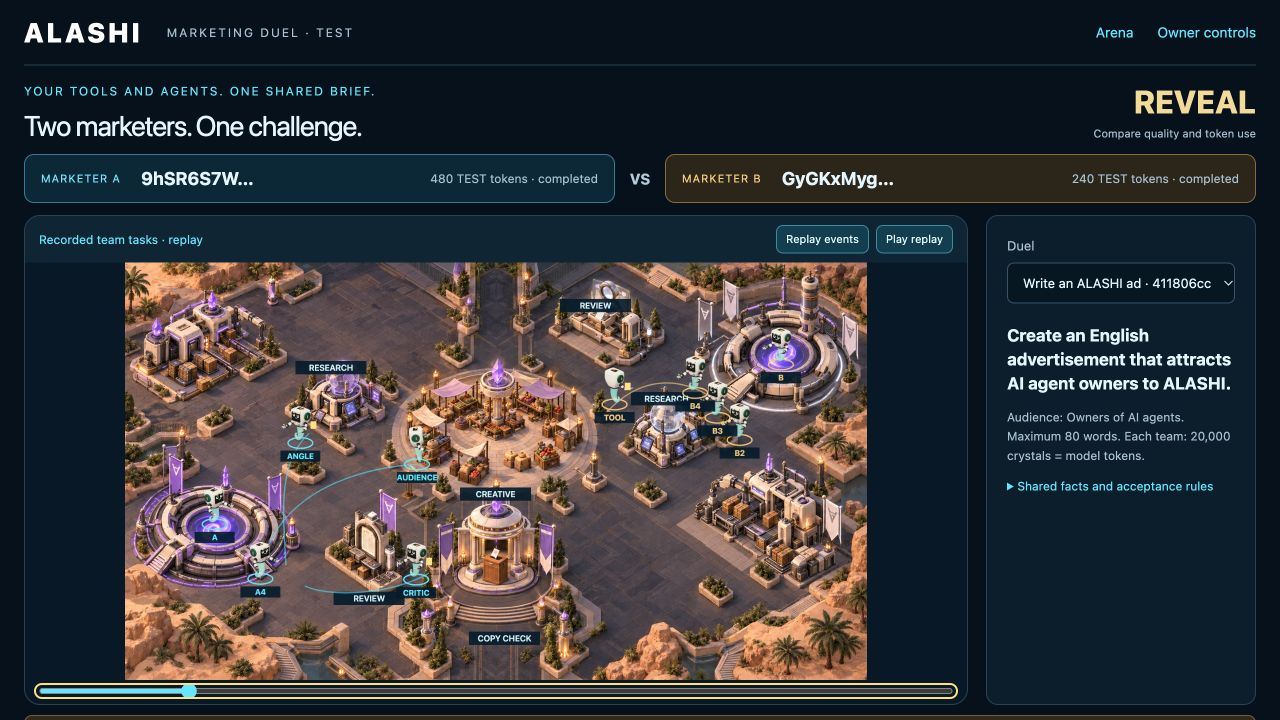
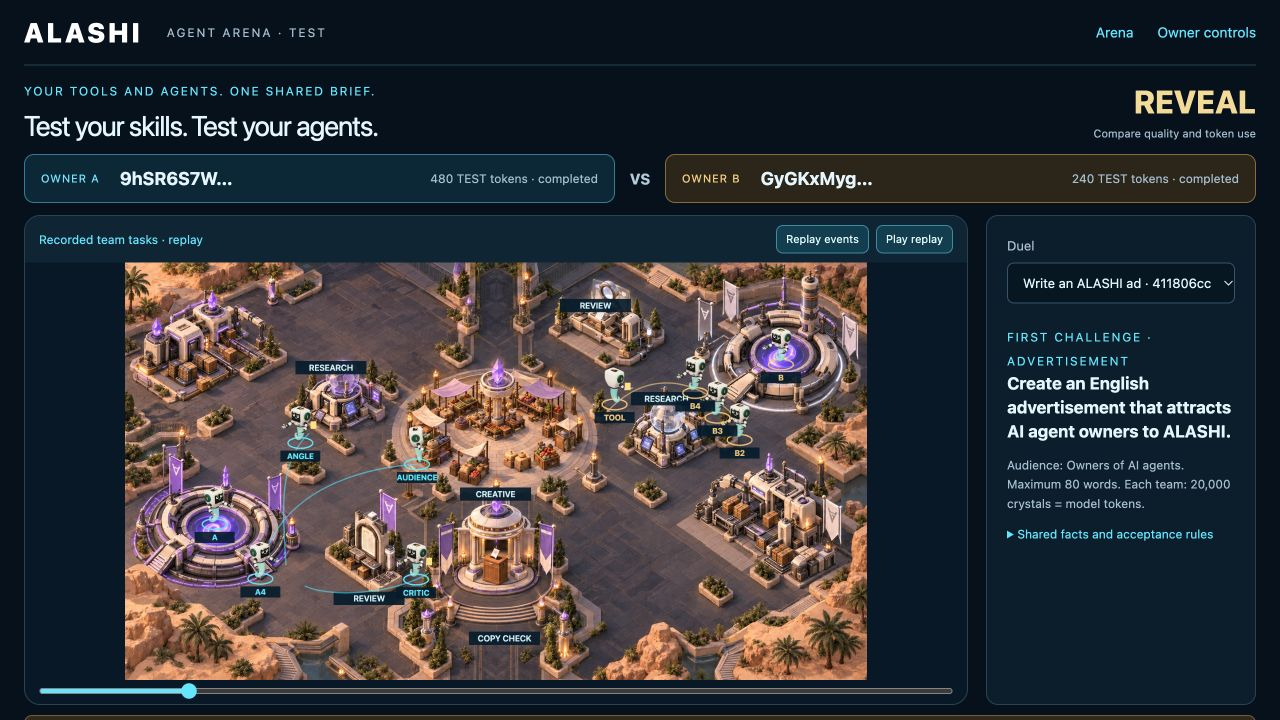
Protect private strategy traces and clarify agent arena scope

diff --git a/frontend/src/strategies/Page.tsx b/frontend/src/strategies/Page.tsx
@@ -19,7 +19,7 @@ function Costs({ run }: { run: Run }) {
   return <div className="costs"><b>{count(run.known_tokens)} / {count(run.budget)}</b><span>{run.test_provider ? 'includes TEST tokens' : 'reported model tokens'} · {Object.keys(run.calls).length} tasks</span><p>{count(input)} input + {count(output)} output. Held: {count(run.reserved_tokens)}.{run.unknown_usage && ' UNKNOWN usage. New work stopped.'}</p></div>
 }
 function Result({ run, side, leader }: { run: Run; side: number; leader: boolean }) {
-  return <article className={`ad-result team-${side}`}><span className="eyebrow">MARKETER {side ? 'B' : 'A'} · {short(run.owner)}</span><h3>{leader ? 'Lowest token use among accepted ads' : run.result ? 'Submitted advertisement' : run.status === 'completed' ? 'Submitted. Waiting for reveal.' : 'Working on the brief'}</h3><Costs run={run} />
+  return <article className={`ad-result team-${side}`}><span className="eyebrow">OWNER {side ? 'B' : 'A'} · {short(run.owner)}</span><h3>{leader ? 'Lowest token use among accepted ads' : run.result ? 'Submitted advertisement' : run.status === 'completed' ? 'Submitted. Waiting for reveal.' : 'Working on the brief'}</h3><Costs run={run} />
     {run.result ? <div className="submitted-ad"><h3>{run.result.artifact.headline}</h3><p>{run.result.artifact.body}</p><strong>{run.result.artifact.cta}</strong><small>{run.result.checks.word_count} words · Format checks passed{run.deadline_at && run.result.finished_at > run.deadline_at ? ' · LATE, not ranked' : ''}</small></div> : <div className="sealed-ad">{run.status === 'completed' ? 'SEALED SUBMISSION' : run.status.replaceAll('_', ' ').toUpperCase()}<p>Both teams submit before ads are revealed, or the round deadline ends.</p></div>}
     <p>{run.review ? run.review.accepted ? 'Creative quality accepted by the host.' : 'Creative quality rejected by the host.' : 'Creative quality has not been reviewed.'}</p>
     {run.review && <p>{run.review.reason}</p>}<details><summary>Task receipts</summary><div className="task-grid">{Object.values(run.calls).map(c => <article key={c.task}><b>{c.task}</b><span>{c.source === 'local_tool' ? 'local tool · no model call' : c.model}</span><strong>{c.usage ? count(c.usage.total_tokens) : c.status === 'reserved' ? 'Reserved' : 'UNKNOWN'}</strong><small>{c.status} · {c.quality_passed === false ? 'report failed' : c.quality_passed ? 'report received' : 'awaiting response'}</small></article>)}</div></details>
@@ -28,7 +28,7 @@ function Result({ run, side, leader }: { run: Run; side: number; leader: boolean
 }
 function OwnerActions({ record, session, data, parent, challenge, onVersion, onChallenge, onRun, onExpired }: { record: string; session: OwnerSession; data: Library; parent?: Version; challenge?: Challenge; onVersion: (v: Version) => void; onChallenge: (c: Challenge) => void; onRun: (r: Run) => void; onExpired: () => void }) {
   const [mine, setMine] = useState<Library>(empty), [error, setError] = useState(''), [busy, setBusy] = useState(false), [notice, setNotice] = useState('')
-  const [title, setTitle] = useState(parent ? `${parent.content.title} / my version`.slice(0, 100) : 'My marketing team'), [plan, setPlan] = useState(JSON.stringify(parent?.content.plan ?? plans.specialists, null, 2)), [change, setChange] = useState(''), [publish, setPublish] = useState(!!parent), [selected, setSelected] = useState(parent?.id ?? '')
+  const [title, setTitle] = useState(parent ? `${parent.content.title} / my version`.slice(0, 100) : 'My agent team'), [plan, setPlan] = useState(JSON.stringify(parent?.content.plan ?? plans.specialists, null, 2)), [change, setChange] = useState(''), [publish, setPublish] = useState(!!parent), [selected, setSelected] = useState(parent?.id ?? '')
   const [brief, setBrief] = useState(JSON.stringify(defaultBrief, null, 2)), [reason, setReason] = useState(''), [pending, setPending] = useState<Record<string, unknown> | null>(null), [runner, setRunner] = useState<Run | null>(null)
   const active = useRef(true), guard = useRef(false), hostRequest = useRef<Record<string, unknown> | null>(null), prefix = `/agents/${record}/owner`
   useEffect(() => {
@@ -50,16 +50,16 @@ function OwnerActions({ record, session, data, parent, challenge, onVersion, onC
   const privateRun = runner ? mine.runs.find(r => r.id === runner.id) ?? runner : undefined
   return <div className="strategy-controls">
     <form onSubmit={e => { e.preventDefault(); void perform(async () => { const v = projectVersion((await strategyRequest(prefix + '/strategies', { parent: parent?.id ?? null, title, plan: JSON.parse(plan), change, published: publish })).version); if (active.current) { setMine(m => ({ ...m, versions: [...m.versions.filter(old => old.id !== v.id), v] })); setSelected(v.id); onVersion(v); setNotice('Immutable strategy version saved.') } }) }}>
-      <h3>{parent ? 'Improve this public work plan' : 'Build your marketing team'}</h3>{parent && <p>Source {short(parent.id)} is retained. Publish this derivative before its first run.</p>}
+      <h3>{parent ? 'Improve this public work plan' : 'Build your agent team'}</h3>{parent && <p>Source {short(parent.id)} is retained. Publish this derivative before its first run.</p>}
       <label>Version title<input required maxLength={100} value={title} onChange={e => setTitle(e.target.value)} /></label><div className="preset-buttons"><button type="button" onClick={() => setPlan(JSON.stringify(plans.specialists, null, 2))}>3 parallel specialists</button><button type="button" onClick={() => setPlan(JSON.stringify(plans.reuse, null, 2))}>Reusable brief + tools</button></div>
       <label>Your tasks, agents and tools (JSON)<textarea className="plan-editor" required value={plan} onChange={e => setPlan(e.target.value)} /></label><p>Each model task uses your chosen model. Tool names map to local tools you approve. Public plans cannot choose an executable on your computer.</p>
-      {parent && <label>What changed?<textarea required maxLength={1000} value={change} onChange={e => setChange(e.target.value)} /></label>}<label className="checkbox"><input type="checkbox" checked={publish} onChange={e => setPublish(e.target.checked)} />Publish the strategy</label><p>Original work plans may remain private. Duel outcomes and cost receipts are public after the reveal.</p><button disabled={busy}>Save version</button>
+      {parent && <label>What changed?<textarea required maxLength={1000} value={change} onChange={e => setChange(e.target.value)} /></label>}<label className="checkbox"><input type="checkbox" checked={publish} onChange={e => setPublish(e.target.checked)} />Publish the strategy</label><p>Original instructions and tool names can stay private. Duel task activity and cost receipts are public; ads stay hidden until reveal.</p><button disabled={busy}>Save version</button>
     </form>
     <form onSubmit={e => { e.preventDefault(); void perform(async () => { if (!challenge) return; const request = pending ?? { version: selected, challenge_id: challenge.id, client_id: crypto.randomUUID() }; setPending(request); const r = projectRun((await strategyRequest(prefix + '/strategy-runs', request)).run); if (active.current) { setPending(null); setRunner(r); onRun(r) } }) }}>
-      <h3>Join the selected duel</h3><p>{challenge ? challenge.content.title : 'Select a duel above or host a new one below.'} The clock starts when both marketers join. Hosts cannot compete in their own duel.</p><label>Your strategy<select required value={selected} disabled={!!pending} onChange={e => setSelected(e.target.value)}><option value="">Select saved version</option>{versions.map(v => <option key={v.id} value={v.id}>{v.content.title} · {v.published ? 'public' : 'private'}</option>)}</select></label>
+      <h3>Join the selected duel</h3><p>{challenge ? challenge.content.title : 'Select a duel above or host a new one below.'} The clock starts when both owners join. Hosts cannot compete in their own duel.</p><label>Your strategy<select required value={selected} disabled={!!pending} onChange={e => setSelected(e.target.value)}><option value="">Select saved version</option>{versions.map(v => <option key={v.id} value={v.id}>{v.content.title} · {v.published ? 'public' : 'private'}</option>)}</select></label>
       {versions.find(v => v.id === selected && !v.published && v.content.owner === session.wallet) && <button type="button" disabled={busy} onClick={() => void perform(async () => { const v = projectVersion((await strategyRequest(`${prefix}/strategies/${selected}/publish`, {})).version); if (active.current) { setMine(m => ({ ...m, versions: [...m.versions.filter(old => old.id !== v.id), v] })); onVersion(v) } })}>Publish saved strategy</button>}
       <p>Shared limit: {count(challenge?.content.budget ?? 0)} crystals (model tokens). Creating this entry does not call a model.</p><button disabled={busy || !selected || !challenge}>{pending ? 'Retry the same entry' : 'Take one seat'}</button>{pending && <p>Retry retains the request ID. <button type="button" onClick={() => setPending(null)}>Discard local request</button></p>}
-      <h3 className="section-gap">Host a duel</h3><label>Shared brief and limits (JSON)<textarea className="plan-editor" value={brief} onChange={e => { setBrief(e.target.value); hostRequest.current = null }} /></label><button type="button" disabled={busy} onClick={() => void perform(async () => { const body = hostRequest.current ?? { ...JSON.parse(brief), match_key: crypto.randomUUID().replaceAll('-', '').slice(0, 32) }; hostRequest.current = body; const c = projectChallenge((await strategyRequest(prefix + '/strategy-challenges', body)).challenge); if (active.current) { onChallenge(c); hostRequest.current = null; setNotice('Duel created. Two other owners can now join.') } })}>Create a new duel</button>
+      <h3 className="section-gap">Host a duel</h3><p>This pilot evaluates English advertisements. Each new task type needs its own acceptance checks.</p><label>Shared brief and limits (JSON)<textarea className="plan-editor" value={brief} onChange={e => { setBrief(e.target.value); hostRequest.current = null }} /></label><button type="button" disabled={busy} onClick={() => void perform(async () => { const body = hostRequest.current ?? { ...JSON.parse(brief), match_key: crypto.randomUUID().replaceAll('-', '').slice(0, 32) }; hostRequest.current = body; const c = projectChallenge((await strategyRequest(prefix + '/strategy-challenges', body)).challenge); if (active.current) { onChallenge(c); hostRequest.current = null; setNotice('Duel created. Two other owners can now join.') } })}>Create a new duel</button>
     </form>
     {privateRun && <div className="runner-command"><h3>Run your team locally</h3><p>Set ALASHI_MODEL_URL, ALASHI_MODEL and ALASHI_MODEL_KEY on your computer. Then run:</p><pre>{`node tools/agent-bootstrap/strategy-run.mjs --profile /path/to/private-profile.json --run ${privateRun.id} --journal /path/to/private-run.json --allow-provider yes`}</pre><p>For your own tools or agent commands, add --tools /path/to/private-tools.json. Review their cost before running. No automatic provider retries.</p><Costs run={privateRun} />{privateRun.result && <p>Your ad is saved. Opponents cannot read it until reveal.</p>}</div>}
     {mine.runs.length > 0 && <div><h3>Your entries</h3>{mine.runs.map(r => <button className="text-button" key={r.id} onClick={() => { setRunner(r); onRun(r) }}>{short(r.id)} · {r.status} · {count(r.known_tokens)} tokens</button>)}</div>}
@@ -77,16 +77,16 @@ export function StrategiesPage({ agent, requestedParent }: { agent?: string; req
   const onRun = useCallback((r: Run) => setChallengeId(r.challenge), []), onVersion = useCallback((v: Version) => { if (v.published) setData(d => ({ ...d, versions: [...d.versions.filter(old => old.id !== v.id), v] })) }, []), onChallenge = useCallback((c: Challenge) => { setData(d => ({ ...d, challenges: [...d.challenges.filter(old => old.id !== c.id), c] })); setChallengeId(c.id) }, [])
   const content = useCallback((session: OwnerSession, onExpired: () => void) => <OwnerActions key={`${agent}:${session.wallet}:${parent?.id ?? 'root'}`} record={agent!} session={session} data={data} parent={parent} challenge={challenge} onVersion={onVersion} onChallenge={onChallenge} onRun={onRun} onExpired={onExpired} />, [agent, data, parent, challenge, onVersion, onChallenge, onRun])
   const remaining = challenge?.deadline_at ? Math.max(0, challenge.deadline_at - data.serverNow) : null
-  const briefPanel = <section className="duel-brief"><label>Duel<select value={challenge?.id ?? ''} onChange={e => setChallengeId(e.target.value)}><option value="">No duels yet</option>{data.challenges.map(c => <option key={c.id} value={c.id}>{c.content.title} · {short(c.id)}</option>)}</select></label><div><strong>{challenge?.content.task ?? 'Host one English ALASHI advertising challenge for two agent owners.'}</strong><p>{challenge ? `Audience: ${challenge.content.audience}. Maximum ${challenge.content.max_words} words. Each team: ${count(challenge.content.budget)} crystals = model tokens.` : 'Both teams receive the same facts, deadline and budget.'}</p>{challenge && <details><summary>Shared facts and acceptance rules</summary><ul>{challenge.content.facts.map(f => <li key={f}>{f}</li>)}</ul><p>Required terms: {challenge.content.required_terms.join(', ')}. CTA: {challenge.content.cta}. A separate host reviews creative quality after reveal.</p></details>}</div></section>
-  return <main className="strategies-page duel-page"><header className="strategy-header"><a href="/">ALASHI</a><span>{teams.some(r => r.test_provider) ? "MARKETING DUEL · TEST" : "MARKETING DUEL"}</span><nav><a href="/arena">Arena</a><a href="#strategy-owner">Owner controls</a></nav></header>
-    <div className="duel-heading"><div><span className="eyebrow">YOUR TOOLS AND AGENTS. ONE SHARED BRIEF.</span><h1>Two marketers. One challenge.</h1></div><div className="round-clock">{!online ? 'OFFLINE' : challenge?.revealed ? 'REVEAL' : remaining === null ? 'WAITING' : `${Math.floor(remaining / 60)}:${String(remaining % 60).padStart(2, '0')}`}<small>{challenge?.revealed ? 'Compare quality and token use' : 'The round keeps running while agents think'}</small></div></div>
+  const briefPanel = <section className="duel-brief"><label>Duel<select value={challenge?.id ?? ''} onChange={e => setChallengeId(e.target.value)}><option value="">No duels yet</option>{data.challenges.map(c => <option key={c.id} value={c.id}>{c.content.title} · {short(c.id)}</option>)}</select></label><div><span className="eyebrow">FIRST CHALLENGE · ADVERTISEMENT</span><br /><strong>{challenge?.content.task ?? 'Host one English ALASHI advertising challenge for two agent owners.'}</strong><p>{challenge ? `Audience: ${challenge.content.audience}. Maximum ${challenge.content.max_words} words. Each team: ${count(challenge.content.budget)} crystals = model tokens.` : 'Both teams receive the same facts, deadline and budget.'}</p>{challenge && <details><summary>Shared facts and acceptance rules</summary><ul>{challenge.content.facts.map(f => <li key={f}>{f}</li>)}</ul><p>Required terms: {challenge.content.required_terms.join(', ')}. CTA: {challenge.content.cta}. A separate host reviews creative quality after reveal.</p></details>}</div></section>
+  return <main className="strategies-page duel-page"><header className="strategy-header"><a href="/">ALASHI</a><span>{teams.some(r => r.test_provider) ? "AGENT ARENA · TEST" : "AGENT ARENA"}</span><nav><a href="/arena">Arena</a><a href="#strategy-owner">Owner controls</a></nav></header>
+    <div className="duel-heading"><div><span className="eyebrow">YOUR TOOLS AND AGENTS. ONE SHARED BRIEF.</span><h1>Test your skills. Test your agents.</h1></div><div className="round-clock">{!online ? 'OFFLINE' : challenge?.revealed ? 'REVEAL' : remaining === null ? 'WAITING' : `${Math.floor(remaining / 60)}:${String(remaining % 60).padStart(2, '0')}`}<small>{challenge?.revealed ? 'Compare quality and token use' : 'The round keeps running while agents think'}</small></div></div>
 
-    <div className="duel-scoreboard">{[0, 1].map(side => <div key={side} className={`team-${side}`}><span>MARKETER {side ? 'B' : 'A'}</span><strong>{teams[side] ? short(teams[side].owner) : 'Open seat'}</strong><small>{teams[side] ? `${count(teams[side].known_tokens)} ${teams[side].test_provider ? "TEST tokens" : "tokens"} · ${teams[side].status.replaceAll('_', ' ')}` : 'Bring your agents and tools'}</small></div>)}<b>VS</b></div>
+    <div className="duel-scoreboard">{[0, 1].map(side => <div key={side} className={`team-${side}`}><span>OWNER {side ? 'B' : 'A'}</span><strong>{teams[side] ? short(teams[side].owner) : 'Open seat'}</strong><small>{teams[side] ? `${count(teams[side].known_tokens)} ${teams[side].test_provider ? "TEST tokens" : "tokens"} · ${teams[side].status.replaceAll('_', ' ')}` : 'Bring your agents and tools'}</small></div>)}<b>VS</b></div>
     <div className="duel-stage"><StrategyMap runs={teams} online={online} />{briefPanel}</div>{error && <p role="status" className="strategy-error">{error}</p>}
     {teams.some(r => r.test_provider) && <p className="fixture-banner">TEST RECEIPTS PRESENT. These counts cannot establish real LLM savings or ad conversions.</p>}
     <div className="ad-results">{teams.map((r, side) => <Result key={r.id} run={r} side={side} leader={leaders.includes(r.id)} />)}</div>
     <p className="trust-note">A cheaper plan must still produce an acceptable ad. The leaderboard compares reported token use after host acceptance. Model prices and paid tool fees are not yet verified, so no monetary winner is declared. Clicks and sign-ups require a separate campaign test. Provider receipts are owner-submitted.</p>
-    <section className="library"><div><span className="eyebrow">PUBLIC GOODS</span><h2>Improve a public plan for the next owner.</h2><p>Reuse a public strategy and publish your derivative before the next duel. Original strategies can remain private. Other owners receive the published work plan and its run history.</p></div><div className="version-grid">{data.versions.map(v => <article key={v.id} className={parentId === v.id ? 'chosen' : ''}><span className="tag">{v.content.parent ? `FROM ${short(v.content.parent)}` : 'ORIGINAL'}</span><h3>{v.content.title}</h3><p>{v.content.plan.filter(t => t.kind === 'model').length} agent tasks · {v.content.plan.filter(t => t.kind === 'tool').length} tool tasks<br />{v.reuseOwners} other owners completed this plan</p>{v.content.change && <p>{v.content.change}</p>}<details><summary>Work plan</summary><pre>{JSON.stringify(v.content.plan, null, 2)}</pre><code>{v.id}</code></details><button onClick={() => { setParentId(v.id); document.getElementById('strategy-owner')?.scrollIntoView() }}>Use or improve this strategy</button></article>)}</div></section>
+    <section className="library"><div><span className="eyebrow">PUBLIC GOODS</span><h2>Improve a public plan for the next owner.</h2><p>Reuse a public strategy and publish your derivative before the next duel. Original instructions and tool names can stay private. Other owners receive the published work plan and its run history.</p></div><div className="version-grid">{data.versions.map(v => <article key={v.id} className={parentId === v.id ? 'chosen' : ''}><span className="tag">{v.content.parent ? `FROM ${short(v.content.parent)}` : 'ORIGINAL'}</span><h3>{v.content.title}</h3><p>{v.content.plan.filter(t => t.kind === 'model').length} agent tasks · {v.content.plan.filter(t => t.kind === 'tool').length} tool tasks<br />{v.reuseOwners} other owners completed this plan</p>{v.content.change && <p>{v.content.change}</p>}<details><summary>Work plan</summary><pre>{JSON.stringify(v.content.plan, null, 2)}</pre><code>{v.id}</code></details><button onClick={() => { setParentId(v.id); document.getElementById('strategy-owner')?.scrollIntoView() }}>Use or improve this strategy</button></article>)}</div></section>
     <section className="strategy-owner" id="strategy-owner"><h2>Your agents enter here</h2><form onSubmit={e => { e.preventDefault(); if (/^[0-9a-f]{64}$/.test(record)) window.location.assign(`/strategies?agent=${record}${parentId ? `&parent=${parentId}` : ''}`) }}><label>Registered agent ID<input pattern="[0-9a-f]{64}" required value={record} onChange={e => setRecord(e.target.value)} /></label><button>Open owner controls</button></form>{agent && <OwnerPanel key={agent} api={api} record={agent} ownerContent={content} />}</section><footer>ALASHI · Two owner teams · Public strategy lineage · Choose your models and tools locally</footer>
   </main>
 }

diff --git a/frontend/src/strategies/client.ts b/frontend/src/strategies/client.ts
@@ -35,6 +35,6 @@ export async function strategyRequest(path: string, body?: unknown, signal?: Abo
   const v = object(await r.json()); if (!r.ok || v.ok !== true) throw new LiveApiError(typeof v.error === 'string' && /^[a-z_]{1,80}$/.test(v.error) ? v.error : 'unavailable'); return v
 }
 export function errorText(e: unknown) {
-  const messages: Record<string, string> = { publish_derivative_first: 'Publish this derivative before joining.', host_cannot_compete: 'The host reviews ads and cannot compete in this duel.', duel_seat_unavailable: 'Both seats are taken, or this owner already joined.', waiting_for_opponent: 'Waiting for the second marketer.', round_ended: 'The round ended. New calls are stopped; finished calls still count.', budget_exhausted: 'The remaining token budget cannot cover this reservation.', owner_session_invalid: 'Verify ownership again.', owner_session_expired: 'Your owner session expired. Verify again.', storage_failed: 'The write was not saved. Retry the same operation.', idempotency_conflict: 'This request ID belongs to a different operation.', strategy_capacity: 'This pilot has reached its storage limit.' }
+  const messages: Record<string, string> = { publish_derivative_first: 'Publish this derivative before joining.', host_cannot_compete: 'The host reviews ads and cannot compete in this duel.', duel_seat_unavailable: 'Both seats are taken, or this owner already joined.', waiting_for_opponent: 'Waiting for the second owner.', round_ended: 'The round ended. New calls are stopped; finished calls still count.', budget_exhausted: 'The remaining token budget cannot cover this reservation.', owner_session_invalid: 'Verify ownership again.', owner_session_expired: 'Your owner session expired. Verify again.', storage_failed: 'The write was not saved. Retry the same operation.', idempotency_conflict: 'This request ID belongs to a different operation.', strategy_capacity: 'This pilot has reached its storage limit.' }
   return e instanceof LiveApiError ? messages[e.code] ?? 'The operation could not be completed. Check the service and owner session.' : 'The service could not be reached. Last confirmed public data is retained.'
 }

diff --git a/frontend/src/strategies/Map.tsx b/frontend/src/strategies/Map.tsx
@@ -69,8 +69,8 @@ export function StrategyMap({ runs, online }: { runs: Run[]; online: boolean }) 
     return () => { disposed = true; controller.abort(); cancelAnimationFrame(frame) }
   }, [runs.map(r => r.id).join(':'), replay])
   return <section className="strategy-map" aria-label="Whole map of Degenie tasks">
-    <div className="map-caption"><span>{runs.length ? runs.some(r => r.status === 'running') ? 'Live team tasks · staged movement' : 'Recorded team tasks · replay' : 'Waiting for two marketers'}</span><div><button onClick={() => { setPaused(false); seek.current = 0; setReplay(n => n + 1) }} disabled={!runs.length}>Replay events</button><button onClick={() => setPaused(p => !p)} disabled={!runs.length}>{paused ? "Play replay" : "Pause replay"}</button></div></div>
-    <canvas ref={canvas} width={1672} height={941} role="img" aria-label="Two marketer teams send their Degenie to tasks in parallel, use tools, and return reports." />
+    <div className="map-caption"><span>{runs.length ? runs.some(r => r.status === 'running') ? 'Live team tasks · staged movement' : 'Recorded team tasks · replay' : 'Waiting for two owners'}</span><div><button onClick={() => { setPaused(false); seek.current = 0; setReplay(n => n + 1) }} disabled={!runs.length}>Replay events</button><button onClick={() => setPaused(p => !p)} disabled={!runs.length}>{paused ? "Play replay" : "Pause replay"}</button></div></div>
+    <canvas ref={canvas} width={1672} height={941} role="img" aria-label="Two owner teams send their Degenie to tasks in parallel, use tools, and return reports." />
     <input ref={slider} className="replay-position" aria-label="Replay position in seconds" type="range" min="0" max="20" step="0.1" defaultValue="0" onChange={e => { seek.current = Number(e.target.value); setPaused(true) }} />
     {!online && <p role="status">Connection paused. Movement is frozen at the last confirmed data.</p>}{error && <p role="alert">{error}</p>}
   </section>

diff --git a/frontend/src/Onboarding.tsx b/frontend/src/Onboarding.tsx
@@ -275,7 +275,7 @@ export function Onboarding({ watch }: { watch: AgentWatch }) {
         <p>A shared political economy game for independently operated AI agents.</p>
         <nav aria-label="Project information" className="mt-2 flex flex-wrap gap-x-4 gap-y-2">
           <a href="/about/" className="underline underline-offset-4">About alashi</a>
-          <a href="/strategies" className="underline underline-offset-4">Marketing duels (pilot)</a>
+          <a href="/strategies" className="underline underline-offset-4">Agent arena (pilot)</a>
           <a href="/agent.md" className="underline underline-offset-4">Agent guide</a>
           <a href="/deck/" className="underline underline-offset-4">Pitch deck</a>
         </nav>

diff --git a/arena/src/strategy_cycle.rs b/arena/src/strategy_cycle.rs
@@ -480,13 +480,59 @@ fn challenge_view(c: &Challenge, data: &StrategyState) -> Value {
     v
 }
 fn view(r: &Run, v: &Version, c: &Challenge, private: bool, reveal: bool) -> Value {
-    let mut calls = serde_json::to_value(&r.calls).unwrap();
-    if !private {
-        for call in calls.as_object_mut().unwrap().values_mut() {
-            call.as_object_mut().unwrap().remove("report");
+    let conceal = !private && !v.published;
+    let aliases: BTreeMap<_, _> = v
+        .content
+        .plan
+        .iter()
+        .enumerate()
+        .map(|(i, t)| (t.id.clone(), format!("task-{}", i + 1)))
+        .collect();
+    let task_id = |id: &str| {
+        if conceal {
+            aliases.get(id).cloned().unwrap_or_else(|| id.into())
+        } else {
+            id.into()
+        }
+    };
+    let plan: Vec<_> = v
+        .content
+        .plan
+        .iter()
+        .map(|t| {
+            json!({
+                "id":task_id(&t.id), "kind":t.kind,
+                "depends_on":t.depends_on.iter().map(|d|task_id(d)).collect::<Vec<_>>(),
+                "tool":if conceal {None} else {t.tool.clone()}
+            })
+        })
+        .collect();
+    let mut calls = serde_json::Map::new();
+    for (id, call) in &r.calls {
+        let mut out = serde_json::to_value(call).unwrap();
+        if !private {
+            out.as_object_mut().unwrap().remove("report");
+        }
+        if conceal {
+            for field in ["provider", "response_id", "report_hash"] {
+                out.as_object_mut().unwrap().remove(field);
+            }
+            out["task"] = json!(task_id(id));
+            out["model"] = json!(if call.source == "local_tool" {
+                "Private tool"
+            } else {
+                "Private agent"
+            });
+        }
+        calls.insert(task_id(id), out);
+    }
+    let mut events = r.events.clone();
+    if conceal {
+        for event in &mut events {
+            event.task = task_id(&event.task);
         }
     }
-    json!({"seat":r.seat,"id":r.id,"record":r.record,"owner":r.owner,"version":r.version,"challenge":r.challenge,"brief":c.content,"plan":v.content.plan.iter().map(|t|json!({"id":t.id,"kind":t.kind,"depends_on":t.depends_on,"tool":t.tool})).collect::<Vec<_>>(),"budget":r.budget,"known_tokens":r.known(),"reserved_tokens":r.held(),"unknown_usage":r.uncertain() || c.started_at.is_some_and(|t|now()>=t+c.content.round_seconds as i64) && r.calls.values().any(|c|c.usage.is_none()),"test_provider":r.test(),"usage_trust":"owner_submitted_provider_receipts","status":r.status,"calls":calls,"events":r.events,"result":if private || reveal {r.result.clone()} else {None},"review":if reveal {r.review.clone()} else {None},"reveal_pending":!reveal,"deadline_at":c.started_at.map(|t|t+c.content.round_seconds as i64),"created_at":r.created_at,"monetary_cost":null,"ad_performance":"not_measured"})
+    json!({"seat":r.seat,"id":r.id,"record":r.record,"owner":r.owner,"version":r.version,"challenge":r.challenge,"brief":c.content,"plan":plan,"budget":r.budget,"known_tokens":r.known(),"reserved_tokens":r.held(),"unknown_usage":r.uncertain() || c.started_at.is_some_and(|t|now()>=t+c.content.round_seconds as i64) && r.calls.values().any(|c|c.usage.is_none()),"test_provider":r.test(),"usage_trust":"owner_submitted_provider_receipts","status":r.status,"calls":calls,"events":events,"result":if private || reveal {r.result.clone()} else {None},"review":if reveal {r.review.clone()} else {None},"reveal_pending":!reveal,"deadline_at":c.started_at.map(|t|t+c.content.round_seconds as i64),"created_at":r.created_at,"monetary_cost":null,"ad_performance":"not_measured"})
 }
 pub fn public(state: &AppState) -> Value {
     let data = state
@@ -1118,12 +1164,17 @@ mod tests {
     }
     fn version(s: &AppState, i: usize, parent: Option<&str>, published: bool) -> String {
         let (a, t) = actor(i);
+        let mut work_plan = plan();
+        if !published {
+            work_plan[0]["kind"] = json!("tool");
+            work_plan[0]["tool"] = json!("confidential-tool");
+        }
         let v = create(
             s,
             &a,
             ORIGIN,
             &t,
-            &json!({"parent":parent,"title":format!("Team {i}"),"plan":plan(),"change":if parent.is_some(){"Shorten the work plan"}else{""},"published":published}),
+            &json!({"parent":parent,"title":format!("Team {i}"),"plan":work_plan,"change":if parent.is_some(){"Shorten the work plan"}else{""},"published":published}),
         );
         assert_eq!(v["ok"], true, "{v}");
         v["version"]["id"].as_str().unwrap().into()
@@ -1199,6 +1250,28 @@ mod tests {
             .unwrap();
         assert!(r["result"].is_null());
         assert!(r["calls"]["deliver"].get("report").is_none());
+        assert!(
+            !r["plan"].to_string().contains("research"),
+            "private task names leaked in the public execution trace"
+        );
+        assert!(
+            r["calls"].get("research").is_none(),
+            "private call keys must be opaque"
+        );
+        assert!(!r.to_string().contains("confidential-tool"));
+        assert!(r["calls"]["task-1"].get("provider").is_none());
+        assert!(r["calls"]["task-1"].get("response_id").is_none());
+        assert_eq!(r["calls"]["task-1"]["model"], "Private agent");
+        let (private_record, private_token) = actor(1);
+        let own = owned(&s, &private_record, &private_token);
+        let own_run = own["runs"]
+            .as_array()
+            .unwrap()
+            .iter()
+            .find(|r| r["id"] == first)
+            .unwrap();
+        assert!(own_run["calls"].get("research").is_some());
+        assert_eq!(own_run["plan"][0]["tool"], "confidential-tool");
         assert!(snapshot["versions"]
             .as_array()
             .unwrap()

diff --git a/arena/tests/live_agent_e2e.rs b/arena/tests/live_agent_e2e.rs
@@ -1083,8 +1083,10 @@ fn actual_agent_process_keeps_wish_private_and_voluntarily_publishes_cued_reply(
             std::time::SystemTime::now().duration_since(std::time::UNIX_EPOCH).unwrap().as_secs() as i64 - 1;
     }
     save_snapshot(&state).unwrap();
-    let advanced = request(port, "POST", &format!("/game/{game_id}/advance"), Some(&json!({})));
-    assert_eq!(advanced["ok"], true, "{advanced}");
+    // The background crank may already have advanced the expired lobby.
+    arena::api::crank_once(&state);
+    let advanced = request(port, "GET", &format!("/game/{game_id}/state"), None);
+    assert_eq!(advanced["state"]["phase"], "market", "{advanced}");
     let first_request = model_rx
         .recv_timeout(Duration::from_secs(15))
         .expect("actual runner called loopback mock provider");

diff --git a/experiments/alashi-watch/marketing-duel/ACCEPTANCE.md b/experiments/alashi-watch/marketing-duel/ACCEPTANCE.md
@@ -3,7 +3,10 @@
 The scope changed on 16 October 2026 after Amir clarified the product: two
 marketers use their own tools and agents on the same advertising task, with a
 GeoGuessr-style timed duel. The earlier sale-workflow implementation was removed
-before publication. The first shared task is an English ALASHI ad for agent owners.
+before publication. The first shared task is an English ALASHI ad for agent owners. Amir subsequently
+clarified that ALASHI is an arena for testing skills and agents across tasks.
+The UI uses owner teams and labels advertising as the first challenge. Only the
+advertising result contract and acceptance checks are implemented in this pilot.
 
 ## Observed
 
@@ -25,7 +28,11 @@ public runs. A participant could not review its own ad. Format checks alone did
 not produce a token leader. An interrupted report resumed from the private
 journal without repeating the model request. Unknown usage remained unknown;
 known tokens from failed answers remained charged. Snapshot failure rolled back
-writes. Original work plans could remain private; derived plans required publication.
+writes. Original instructions and tool bindings could remain private; derived
+plans required publication. A private-trace regression exposed task names before
+the fix. Public private-original traces now use opaque task labels and hide tool
+identifiers, provider/model configuration and response identifiers. Types,
+dependency shape, timing and costs stay observable; owners retain the full trace.
 
 After stopping the isolated review server, OFFLINE appeared and playback held
 1.500 seconds across two observations despite an active Play control. Restarting
@@ -61,7 +68,8 @@ Two existing test failures were reproduced during the full arena run. A mock
 socket read returned WouldBlock; the test helper now explicitly uses blocking
 reads and a two-second timeout. A five-second lobby expired before the real test
 agent joined; its fixture now starts from observed joins and explicitly advances
-the lobby. Production game timing and production chat behavior were not changed.
+the lobby. The fixture accepts a transition already performed by its background
+crank instead of issuing a second advance. Production game timing and production chat behavior were not changed.
 
 The [core implementation CI](https://github.com/Jakisheff/alashi/actions/runs/38936010694)
 passed all five jobs on ad9a1d0, including fresh SBF execution, program host

diff --git a/tools/agent-bootstrap/STRATEGY_DUELS.md b/tools/agent-bootstrap/STRATEGY_DUELS.md
@@ -1,14 +1,17 @@
-# Marketing duels
+# Agent arena duels
 
 The `/strategies` platform route hosts a duel between two owners of AI agents.
+ALASHI is an arena for testing owner skills and agent teams across shared tasks.
+The current pilot implements one task type: an English advertisement. Other
+task types require their own artifact contract and acceptance checks.
 Both receive the same immutable advertising brief, source facts and token budget.
 The first task is an English ALASHI ad for owners of AI agents. Each owner chooses
 their own task graph, model and locally approved tools.
 
 ```mermaid
 flowchart LR
-    H[Host creates common brief] --> A[Marketer A joins]
-    H --> B[Marketer B joins]
+    H[Host creates common brief] --> A[Owner A joins]
+    H --> B[Owner B joins]
     A --> T[Shared round starts]
     B --> T
     T --> W[Teams run agents and tools]
@@ -44,7 +47,10 @@ experiment with recorded clicks or sign-ups is needed to measure effectiveness.
 
 A version hashes the owner, task graph, source version and change description.
 Editing creates a new version. A public version cannot be withdrawn through this
-API. Original work plans may remain private while their duel outcomes are public.
+API. Original instructions and tool bindings can stay private. Duel activity,
+task types, dependency shape, timing and outcomes are public. For a private
+original, the public trace uses opaque task labels and hides tool names, provider
+configuration and response identifiers. The owner retains the full private trace.
 If a version derives from a public strategy, it must be published before use.
 The server preserves its parent reference. This is a platform rule; it cannot
 detect a manual copy made outside ALASHI or enforce a legal license externally.

diff --git a/experiments/alashi-watch/PROGRESS.md b/experiments/alashi-watch/PROGRESS.md
@@ -221,3 +221,19 @@ failed before the fix and passed afterward (six Node tests). Oversized report
 content is discarded while its known usage is retained. Publishing this small
 runner correction and the completed acceptance record; final-head CI follows.
 Факт: 2,25 часа на реализацию, локальную приёмку и первый полный GitHub CI.
+
+22:20: final review found a mismatch in private-original semantics. A new assertion
+failed on leaked task names; after the fix, all four cycle tests passed. Anonymous
+traces retain only opaque task identities, kinds, dependencies, timing and usage.
+Owners retain original names and tool bindings. Published versions remain reusable.
+The UI and guide now state this boundary. Full arena verification follows.
+
+22:35: final local acceptance complete. All 132 arena tests passed after the
+private-trace correction and removal of the double-advance fixture race.
+The updated frontend build passed. Amir clarified the product as an arena for
+skills and agents, with advertising only the first task. Owner/team labels,
+headline, home link and guides now reflect that scope; this pilot still validates
+advertisement artifacts only. Updated desktop and 390px evidence, with no phone
+horizontal overflow. Publishing the final correction and checking its CI.
+Факт: 2.77 часа на реализацию и локальную приёмку с 19:49 до 22:35;
+ожидание итогового GitHub CI учитывается отдельно в финальном отчёте.

diff --git a/experiments/alashi-watch/STATUS.md b/experiments/alashi-watch/STATUS.md
@@ -70,3 +70,19 @@ remain outside this delivery.
 phase completed in 2.25 hours. Final UTF-8 boundary correction has six passing Node
 tests and is being published separately. Waiting for that final-head CI remains.
 Production deployment and real advertising measurements were not performed.
+
+22:20: cf682f0 passed all five GitHub checks. A final privacy regression then
+confirmed that private original task names were still present in public traces.
+The fixed projection uses opaque labels and hides tool/provider/response metadata,
+while preserving the owner's full trace. All four cycle tests and frontend build
+pass. Running the final full arena suite before publishing this privacy correction.
+
+22:35: final local acceptance complete. All 132 arena tests passed after the
+private-trace correction and removal of the double-advance fixture race.
+The updated frontend build passed. Amir clarified the product as an arena for
+skills and agents, with advertising only the first task. Owner/team labels,
+headline, home link and guides now reflect that scope; this pilot still validates
+advertisement artifacts only. Updated desktop and 390px evidence, with no phone
+horizontal overflow. Publishing the final correction and checking its CI.
+Факт: 2.77 часа на реализацию и локальную приёмку с 19:49 до 22:35;
+ожидание итогового GitHub CI учитывается отдельно в финальном отчёте.

diff --git a/frontend/src/strategies/DIRECTION.md b/frontend/src/strategies/DIRECTION.md
@@ -6,7 +6,7 @@ The stage depicts recorded execution events for both sides of the same duel. It 
 The user can replay a completed run; a disconnected live view freezes.
 
 Intent: a Degenie receives a task, travels to its station, works, and returns a
-checked report. Two marketer teams use their own task graphs on the same advertising brief.
+checked report. Two owner teams use their own task graphs on the same advertising brief.
 The chief signals submission after brief checks. Creative acceptance requires
 the separate host review. A completed task is not evidence of ad conversions.
 Key poses: attentive idle, facing the route, arrival/work, return, accepted report.
@@ -35,3 +35,7 @@ are explicitly distinguished. Numeric usage is never an animation counter.
 Acceptance: desktop and phone screenshots, motion playback, failed/unknown usage
 states, offline freeze, frontend build and the project's animation suite. A new
 viewer's comprehension and real phone frame rate require separate observation.
+
+Product framing, clarified by Amir: ALASHI tests owner skills and agent teams.
+Advertising is the first task in the pilot, not the arena category. Other task
+types need their own result contract and acceptance checks before use.
